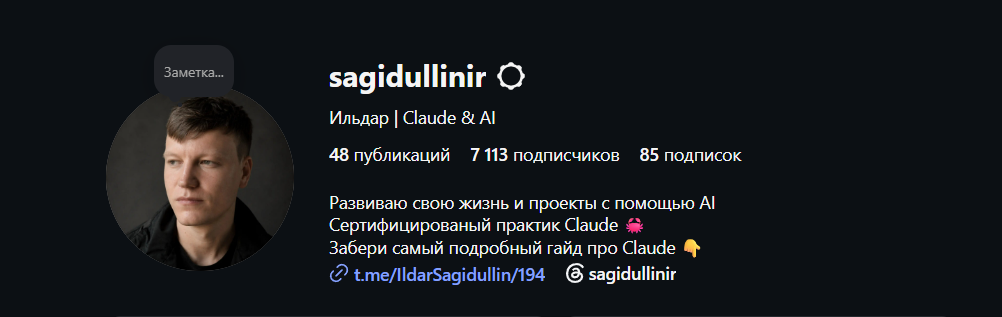
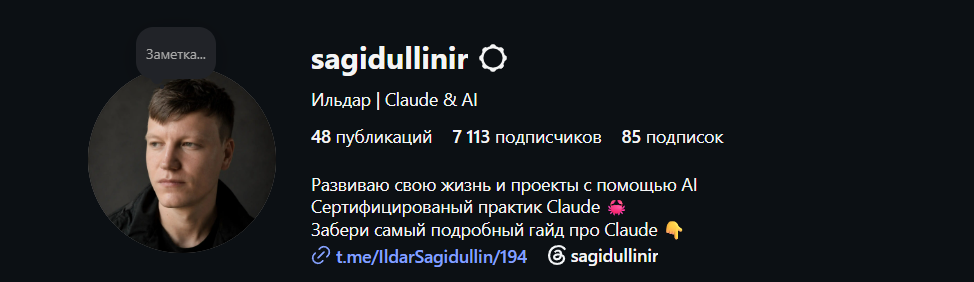
Remove reel cover from hero, keep only IG profile card (cropped, centered)

diff --git a/index.html b/index.html
@@ -36,7 +36,7 @@ img{max-width:100%}
   radial-gradient(500px 300px at 0% 120%,rgba(20,120,255,.28),transparent 60%);}
 .hero .wrap{position:relative;padding:52px 20px 44px}
 .hero .wrap:first-child{padding-bottom:0}
-.profile-card{display:block;background:#0d0d0d;border:1px solid rgba(255,255,255,.16);border-radius:16px;overflow:hidden;text-decoration:none;box-shadow:0 14px 34px -22px rgba(0,0,0,.8);transition:border-color .15s}
+.profile-card{display:block;max-width:620px;margin:0 auto;background:#0d0d0d;border:1px solid rgba(255,255,255,.16);border-radius:16px;overflow:hidden;text-decoration:none;box-shadow:0 14px 34px -22px rgba(0,0,0,.8);transition:border-color .15s}
 .profile-card:hover{border-color:var(--blue)}
 .profile-card img{width:100%;display:block}
 .hero-inner{display:flex;align-items:center;gap:36px}
@@ -160,7 +160,7 @@ footer{text-align:center;color:var(--soft);font-size:13px;padding:10px 0 50px}
       <img src="img/profile.png" alt="Профиль Instagram @sagidullinir">
     </a>
   </div>
-  <div class="wrap hero-inner">
+  <div class="wrap">
     <div class="hero-text">
       <div class="badge-line">
         <span class="pill solid">Медиакит для рекламодателей</span>
@@ -174,9 +174,6 @@ footer{text-align:center;color:var(--soft);font-size:13px;padding:10px 0 50px}
         <div class="fact"><b>~36K</b><span>средний охват</span></div>
         <div class="fact"><b>РФ·КЗ</b><span>ядро аудитории</span></div>
       </div>
-    </div>
-    <div class="hero-visual">
-      <img src="img/hero_cover.png" alt="Обложка ролика @sagidullinir">
     </div>
   </div>
 </div>
